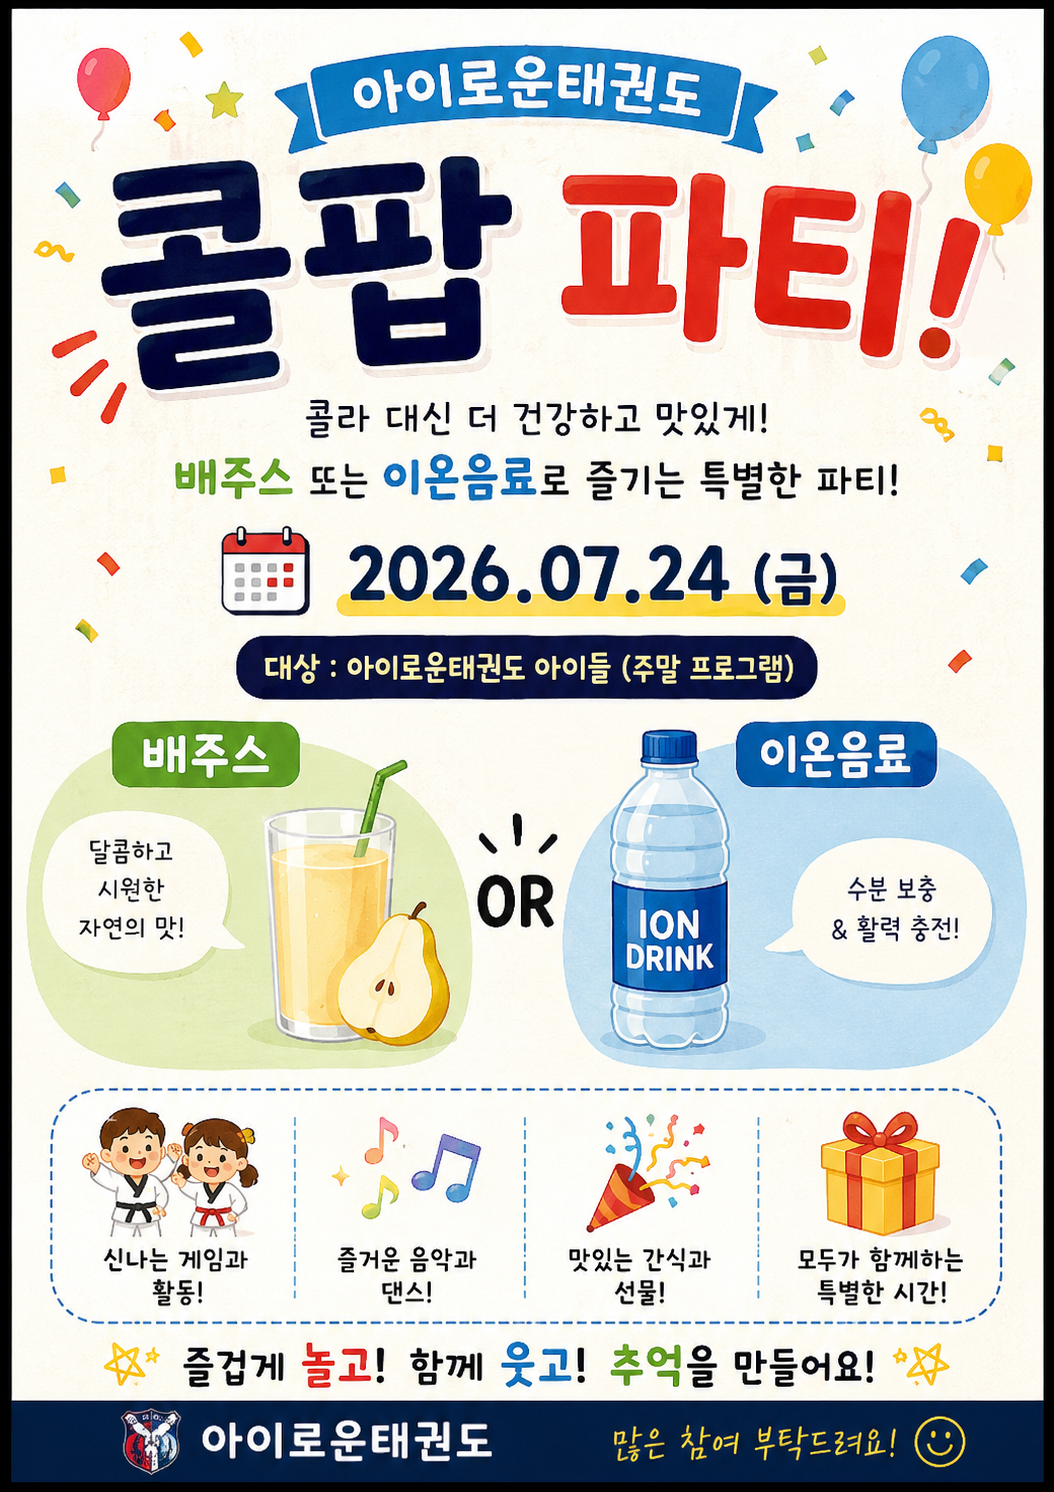
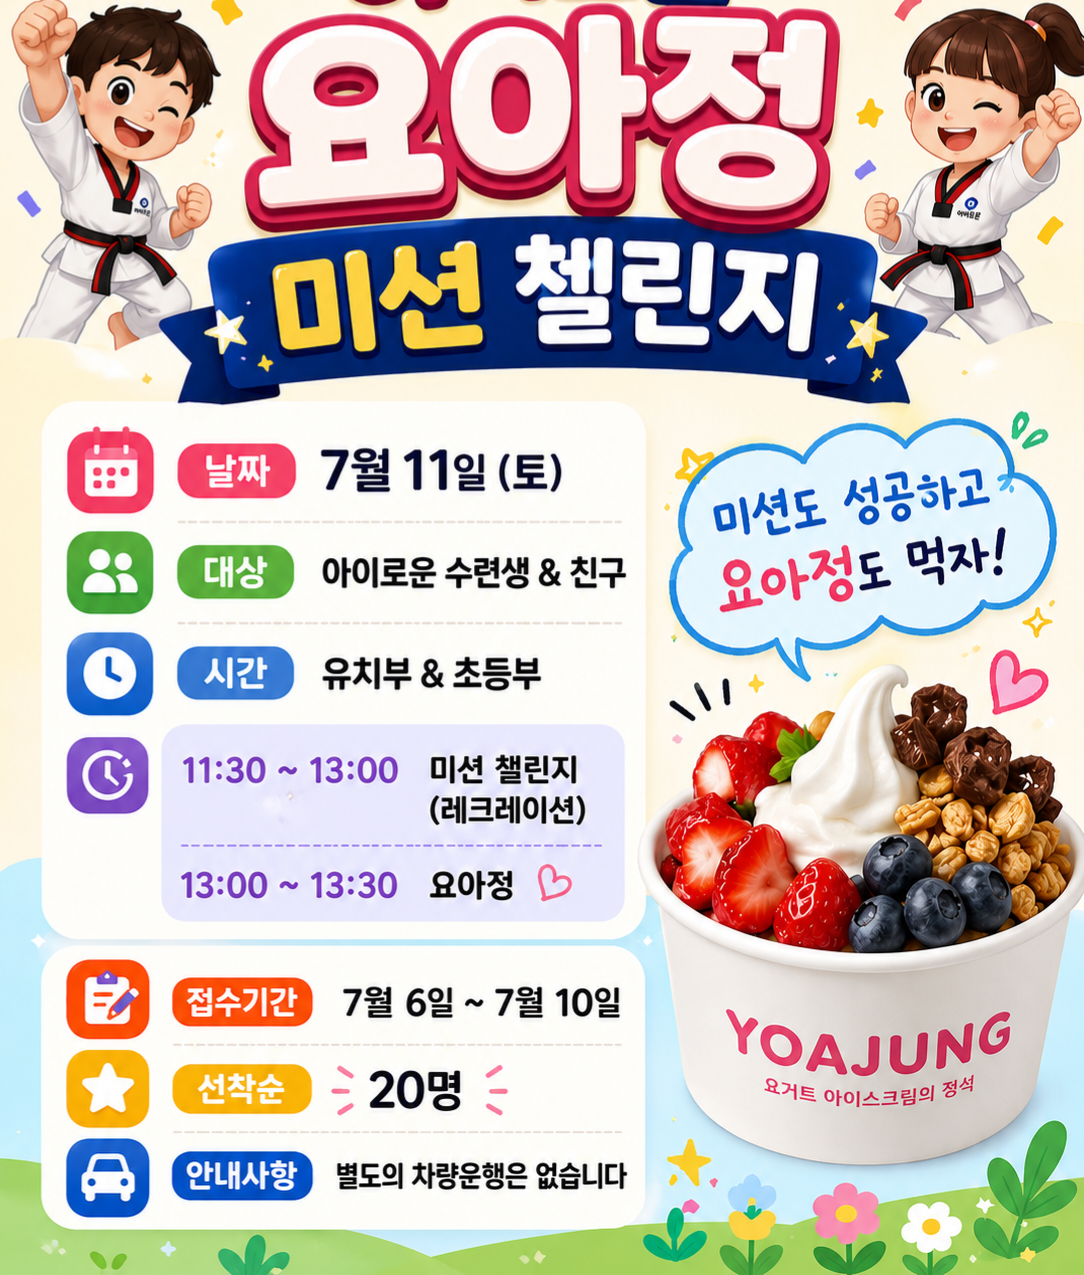
Update notice pages 03-07 to match reordered/updated posters, add 2 new reviews

diff --git a/notice/04.html b/notice/04.html
@@ -3,8 +3,8 @@
 <head>
 <meta charset="UTF-8">
 <meta name="viewport" content="width=device-width, initial-scale=1.0">
-<title>요아정 미션 챌린지 - 아이로운 태권도장</title>
-<meta name="description" content="아이로운 태권도장 요아정 미션 챌린지 안내">
+<title>아이로운 합숙 - 아이로운 태권도장</title>
+<meta name="description" content="아이로운 태권도장 여름 합숙 안내">
 <link rel="icon" type="image/svg+xml" href="../favicon.svg">
 <link rel="preconnect" href="https://fonts.googleapis.com">
 <link href="https://fonts.googleapis.com/css2?family=Noto+Sans+KR:wght@400;500;700;900&display=swap" rel="stylesheet">
@@ -34,8 +34,8 @@
 <section class="page-hero">
   <div class="container">
     <p class="hero-eyebrow">NOTICE</p>
-    <h1>요아정 미션 챌린지</h1>
-    <p class="page-hero-desc">챌린지 · 2026.07.11</p>
+    <h1>아이로운 합숙</h1>
+    <p class="page-hero-desc">합숙 · 2026.06.19</p>
   </div>
 </section>
 
@@ -44,27 +44,32 @@
   <div class="container">
     <div class="notice-detail">
       <div class="notice-detail-image">
-        <img src="../images/notice/notice04.png" alt="아이로운 태권도 요아정 미션 챌린지 안내 포스터">
+        <img src="../images/notice/notice04.png" alt="아이로운 태권도 합숙 안내 포스터">
       </div>
       <div class="notice-detail-rows">
         <div class="notice-row">
-          <span class="notice-key">날짜</span>
-          <span class="notice-val">2026년 7월 11일 (토)</span>
+          <span class="notice-key">신청기간</span>
+          <span class="notice-val">6월 18일(목요일)</span>
         </div>
         <div class="notice-row">
-          <span class="notice-key">대상</span>
-          <span class="notice-val">아이로운 수련생 &amp; 친구 (유치부 &amp; 초등부)</span>
+          <span class="notice-key">날짜</span>
+          <span class="notice-val">6월 19일(금) ~ 6월 20일(토)</span>
         </div>
         <div class="notice-row">
           <span class="notice-key">시간</span>
-          <span class="notice-val">
-            11:30 ~ 13:00 미션 챌린지(레크레이션)<br>
-            13:00 ~ 13:30 요아정
-          </span>
+          <span class="notice-val">저녁 9시 ~ 아침 9시</span>
         </div>
         <div class="notice-row">
-          <span class="notice-key">접수</span>
-          <span class="notice-val">2026년 7월 6일 ~ 7월 10일 (선착순 20명)</span>
+          <span class="notice-key">준비물</span>
+          <span class="notice-val">이불, 세면도구</span>
+        </div>
+        <div class="notice-row">
+          <span class="notice-key">참가비</span>
+          <span class="notice-val">2만 5천원</span>
+        </div>
+        <div class="notice-row">
+          <span class="notice-key">안내</span>
+          <span class="notice-val">별도의 차량운행은 없습니다.</span>
         </div>
         <div class="notice-row">
           <span class="notice-key">문의</span>
@@ -74,7 +79,7 @@
       <div class="notice-detail-nav">
         <a href="03.html">← 이전글: 에어바운스 &amp; 콜팝파티</a>
         <a href="../notice.html" class="notice-detail-list">목록으로</a>
-        <a href="05.html">다음글: 콜팝 파티 →</a>
+        <a href="05.html">다음글: 요아정 미션 챌린지 →</a>
       </div>
     </div>
   </div>

diff --git a/notice/05.html b/notice/05.html
@@ -3,8 +3,8 @@
 <head>
 <meta charset="UTF-8">
 <meta name="viewport" content="width=device-width, initial-scale=1.0">
-<title>콜팝 파티 - 아이로운 태권도장</title>
-<meta name="description" content="아이로운 태권도장 콜팝 파티 안내">
+<title>요아정 미션 챌린지 - 아이로운 태권도장</title>
+<meta name="description" content="아이로운 태권도장 요아정 미션 챌린지 안내">
 <link rel="icon" type="image/svg+xml" href="../favicon.svg">
 <link rel="preconnect" href="https://fonts.googleapis.com">
 <link href="https://fonts.googleapis.com/css2?family=Noto+Sans+KR:wght@400;500;700;900&display=swap" rel="stylesheet">
@@ -34,8 +34,8 @@
 <section class="page-hero">
   <div class="container">
     <p class="hero-eyebrow">NOTICE</p>
-    <h1>콜팝 파티</h1>
-    <p class="page-hero-desc">파티 · 2026.07.24</p>
+    <h1>요아정 미션 챌린지</h1>
+    <p class="page-hero-desc">챌린지 · 2026.07.11</p>
   </div>
 </section>
 
@@ -44,20 +44,27 @@
   <div class="container">
     <div class="notice-detail">
       <div class="notice-detail-image">
-        <img src="../images/notice/notice05.png" alt="아이로운 태권도 콜팝 파티 안내 포스터">
+        <img src="../images/notice/notice05.png" alt="아이로운 태권도 요아정 미션 챌린지 안내 포스터">
       </div>
       <div class="notice-detail-rows">
         <div class="notice-row">
           <span class="notice-key">날짜</span>
-          <span class="notice-val">2026년 7월 24일 (금)</span>
+          <span class="notice-val">2026년 7월 11일 (토)</span>
         </div>
         <div class="notice-row">
           <span class="notice-key">대상</span>
-          <span class="notice-val">아이로운태권도 아이들 (주말 프로그램)</span>
+          <span class="notice-val">아이로운 수련생 &amp; 친구 (유치부 &amp; 초등부)</span>
         </div>
         <div class="notice-row">
-          <span class="notice-key">내용</span>
-          <span class="notice-val">콜라 대신 배주스 또는 이온음료로 즐기는 특별한 파티! 신나는 게임과 음악, 간식과 선물까지 준비되어 있어요.</span>
+          <span class="notice-key">시간</span>
+          <span class="notice-val">
+            11:30 ~ 13:00 미션 챌린지(레크레이션)<br>
+            13:00 ~ 13:30 요아정
+          </span>
+        </div>
+        <div class="notice-row">
+          <span class="notice-key">접수</span>
+          <span class="notice-val">2026년 7월 6일 ~ 7월 10일 (선착순 20명)</span>
         </div>
         <div class="notice-row">
           <span class="notice-key">문의</span>
@@ -65,9 +72,9 @@
         </div>
       </div>
       <div class="notice-detail-nav">
-        <a href="04.html">← 이전글: 요아정 미션 챌린지</a>
+        <a href="04.html">← 이전글: 아이로운 합숙</a>
         <a href="../notice.html" class="notice-detail-list">목록으로</a>
-        <a href="06.html">다음글: 여름 방학 안내 →</a>
+        <a href="06.html">다음글: 에어바운스 &amp; 콜팝파티 →</a>
       </div>
     </div>
   </div>

diff --git a/notice/07.html b/notice/07.html
@@ -3,8 +3,8 @@
 <head>
 <meta charset="UTF-8">
 <meta name="viewport" content="width=device-width, initial-scale=1.0">
-<title>에어바운스 &amp; 콜팝파티 - 아이로운 태권도장</title>
-<meta name="description" content="아이로운 태권도장 에어바운스 & 콜팝파티 안내">
+<title>여름 방학 안내 - 아이로운 태권도장</title>
+<meta name="description" content="아이로운 태권도장 여름 방학 안내">
 <link rel="icon" type="image/svg+xml" href="../favicon.svg">
 <link rel="preconnect" href="https://fonts.googleapis.com">
 <link href="https://fonts.googleapis.com/css2?family=Noto+Sans+KR:wght@400;500;700;900&display=swap" rel="stylesheet">
@@ -34,8 +34,8 @@
 <section class="page-hero">
   <div class="container">
     <p class="hero-eyebrow">NOTICE</p>
-    <h1>에어바운스 &amp; 콜팝파티</h1>
-    <p class="page-hero-desc">파티 · 2026.07.24</p>
+    <h1>여름 방학 안내</h1>
+    <p class="page-hero-desc">방학 · 2026.07.27</p>
   </div>
 </section>
 
@@ -44,30 +44,21 @@
   <div class="container">
     <div class="notice-detail">
       <div class="notice-detail-image">
-        <img src="../images/notice/notice06.png" alt="아이로운 태권도 에어바운스 & 콜팝파티 안내 포스터">
+        <img src="../images/notice/notice07.png" alt="아이로운 태권도 여름 방학 안내 포스터">
       </div>
       <div class="notice-detail-rows">
         <div class="notice-row">
-          <span class="notice-key">날짜</span>
-          <span class="notice-val">2026년 7월 24일 (금)</span>
+          <span class="notice-key">방학</span>
+          <span class="notice-val">7월 27일(월) ~ 29일(수) 태권도 방학입니다.</span>
         </div>
         <div class="notice-row">
-          <span class="notice-key">시간</span>
-          <span class="notice-val">2시 / 3시 30분 / 5시 (기존 수업 시간)</span>
-        </div>
-        <div class="notice-row">
-          <span class="notice-key">내용</span>
-          <span class="notice-val">콜라를 마시지 않는 친구들을 위해 사과주스·오렌지주스 등 과일음료도 함께 준비했어요! 신나게 뛰고, 맛있게 먹는 즐거운 시간을 보내요.</span>
-        </div>
-        <div class="notice-row">
-          <span class="notice-key">문의</span>
-          <span class="notice-val"><a href="tel:010-7633-8244" style="color:var(--pink); font-weight:700;">010-7633-8244</a></span>
+          <span class="notice-key">안내</span>
+          <span class="notice-val">7월 30일(목)부터 정상수업 진행합니다!</span>
         </div>
       </div>
       <div class="notice-detail-nav">
-        <a href="05.html">← 이전글: 요아정 미션 챌린지</a>
+        <a href="06.html">← 이전글: 에어바운스 &amp; 콜팝파티</a>
         <a href="../notice.html" class="notice-detail-list">목록으로</a>
-        <a href="07.html">다음글: 여름 방학 안내 →</a>
       </div>
     </div>
   </div>

diff --git a/review.html b/review.html
@@ -45,6 +45,30 @@
     <div class="review-list">
       <div class="review-card">
         <div class="review-head">
+          <img class="review-avatar" src="images/avatars/avatar14.png" alt="">
+          <div class="review-stars">★★★★★</div>
+          <h3 class="review-headline">예절과 책임감까지 함께 배워요</h3>
+        </div>
+        <div class="review-body">
+          <p class="review-text">초등학교 3학년이 되면서 체력도 키우고 규칙적인 운동을 시켜주고 싶어 등록했는데 기대 이상이에요. 예절과 책임감도 함께 배우는 것 같습니다. 아이가 스스로 목표를 세우고 열심히 수련하는 모습이 보기 좋고, 관장님과의 소통도 잘 되어 믿고 맡길 수 있어요. 앞으로도 꾸준히 다닐 예정입니다. 👍</p>
+          <p class="review-meta">초등부 학부모</p>
+        </div>
+      </div>
+
+      <div class="review-card">
+        <div class="review-head">
+          <img class="review-avatar" src="images/avatars/avatar13.png" alt="">
+          <div class="review-stars">★★★★★</div>
+          <h3 class="review-headline">태권도 가는 날만 기다려요</h3>
+        </div>
+        <div class="review-body">
+          <p class="review-text">5살이라 처음엔 잘 적응할 수 있을까 걱정이 많았는데, 선생님들께서 아이 눈높이에 맞춰 정말 잘 지도해 주세요. 태권도 가는 날만 기다릴 정도로 너무 좋아하고, 집에서도 배운 인사와 예절을 자연스럽게 실천하는 모습을 보면 보내길 잘했다는 생각이 듭니다. 체력도 좋아지고 자신감도 많이 생겨서 만족하고 있어요. 😊</p>
+          <p class="review-meta">유아부 학부모</p>
+        </div>
+      </div>
+
+      <div class="review-card">
+        <div class="review-head">
           <img class="review-avatar" src="images/avatars/avatar12.png" alt="">
           <div class="review-stars">★★★★★</div>
           <h3 class="review-headline">꾸준히 운동하는 습관이 생겼어요</h3>

diff --git a/notice.html b/notice.html
@@ -43,27 +43,35 @@
 <section class="section">
   <div class="container">
     <div class="notice-list">
-      <a href="notice/06.html" class="notice-item">
-        <span class="notice-num">6</span>
+      <a href="notice/07.html" class="notice-item">
+        <span class="notice-num">7</span>
         <span class="notice-summary-badge">방학</span>
         <span class="notice-summary-title">여름 방학 안내</span>
         <span class="notice-summary-date">2026-07-27</span>
         <span class="notice-summary-arrow">›</span>
       </a>
 
+      <a href="notice/06.html" class="notice-item">
+        <span class="notice-num">6</span>
+        <span class="notice-summary-badge">파티</span>
+        <span class="notice-summary-title">에어바운스 &amp; 콜팝파티</span>
+        <span class="notice-summary-date">2026-07-24</span>
+        <span class="notice-summary-arrow">›</span>
+      </a>
+
       <a href="notice/05.html" class="notice-item">
         <span class="notice-num">5</span>
-        <span class="notice-summary-badge">파티</span>
-        <span class="notice-summary-title">콜팝 파티</span>
-        <span class="notice-summary-date">2026-07-24</span>
+        <span class="notice-summary-badge">챌린지</span>
+        <span class="notice-summary-title">요아정 미션 챌린지</span>
+        <span class="notice-summary-date">2026-07-11</span>
         <span class="notice-summary-arrow">›</span>
       </a>
 
       <a href="notice/04.html" class="notice-item">
         <span class="notice-num">4</span>
-        <span class="notice-summary-badge">챌린지</span>
-        <span class="notice-summary-title">요아정 미션 챌린지</span>
-        <span class="notice-summary-date">2026-07-11</span>
+        <span class="notice-summary-badge">합숙</span>
+        <span class="notice-summary-title">아이로운 합숙</span>
+        <span class="notice-summary-date">2026-06-19</span>
         <span class="notice-summary-arrow">›</span>
       </a>
 

diff --git a/notice/03.html b/notice/03.html
@@ -74,7 +74,7 @@
       <div class="notice-detail-nav">
         <a href="01.html">← 이전글: 레크레이션 &amp; 어묵파티</a>
         <a href="../notice.html" class="notice-detail-list">목록으로</a>
-        <a href="04.html">다음글: 요아정 미션 챌린지 →</a>
+        <a href="04.html">다음글: 아이로운 합숙 →</a>
       </div>
     </div>
   </div>
